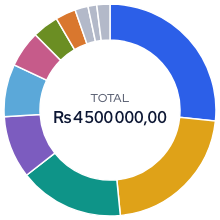
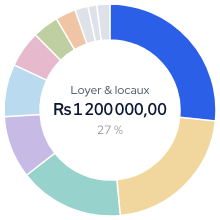
fix(qa): corrige les trois constats de la revue contradictoire
Revue par contexte independant avant push (regle 6). Trois constats retenus.

F1 (bloquant) — le stub `sommeNette` de la demo renvoyait ses totaux SANS regarder
le filtre : le bandeau se superposait a l'etat vide « aucune transaction ne
correspond », un ecran que la prod ne produit jamais (`sommeNette.length > 0` y
demonte le bloc), et l'etat vide filtre devenait lui-meme incapturable. C'est
exactement le defaut de fidelite de fixture que ce lot pretendait traiter. Seule la
CARDINALITE suit desormais le filtre ; les montants restent une constante.

F2 — `types-transactions.ts` tracait « la demo ne fournit pas sommeNette » en
nommant le fichier. Le commentaire est amende au lieu d'etre laisse faux.

F3 — le `whitespace-nowrap` pose sur le libelle de devise rendait la colonne
incompressible et repoussait le NET hors de l'ecran sous 640 px : l'inverse de la
regle du projet (un libelle cede, jamais un chiffre). La cellule redevient
elastique — le repli tombe ENTRE les mots, aucun mot n'est hache. Mesure : plus de
Net masque des 480 px. A 375 px la table defile encore (quatre colonnes dont trois
insecables), la zone est donc rendue focusable au clavier.

Aussi : case a cocher recalee sur la 1re ligne des options a deux lignes (F6),
commentaire perime du donut corrige (F5, U+202F est deja insecable), reference
UI_GUIDELINES §221 -> §2.2 (221 etait un numero de ligne).

diff --git a/src/components/transactions/transactions-somme-nette.tsx b/src/components/transactions/transactions-somme-nette.tsx
@@ -107,7 +107,20 @@ export function TransactionsSommeNette({
           colonnes ET de ligne → association valeur↔en-tête gratuite pour le lecteur
           d'écran, et alignement des colonnes (donc des virgules) garanti par le moteur de
           rendu, sans largeur en dur. */}
-      <div className="mt-2 overflow-x-auto">
+      {/* Sous ~400 px, quatre colonnes dont trois de montants INSÉCABLES ne tiennent pas :
+          la table défile alors DANS ce conteneur (la page, elle, ne défile jamais). C'est
+          le moindre mal — l'alternative serait de raboter un chiffre.
+          `role=region` + `tabIndex=0` : une zone défilante doit être atteignable au
+          CLAVIER, sinon le Net devient inaccessible sans souris dès qu'elle défile.
+          `aria-label` PROPRE (et non un `aria-labelledby` vers le titre de la section) :
+          la section porte déjà ce titre, le réutiliser ferait annoncer deux fois le même
+          nom pour deux niveaux imbriqués. Inerte tant qu'il n'y a rien à faire défiler. */}
+      <div
+        role="region"
+        aria-label="Totaux par devise"
+        tabIndex={0}
+        className="mt-2 overflow-x-auto focus-visible:outline-none focus-visible:ring-2 focus-visible:ring-primary"
+      >
         <table className="w-full text-xs">
           <thead>
             <tr className="text-[11px] uppercase tracking-wide text-text-faint">
@@ -128,16 +141,21 @@ export function TransactionsSommeNette({
           <tbody>
             {totaux.map((t) => (
               <tr key={t.devise}>
-                {/* `whitespace-nowrap` : le nom de devise est un MOT, il se lit entier ou
-                  pas du tout. Il portait `max-w-0 truncate` — un hack qui écrase la
-                  colonne au minimum possible pour forcer la troncature ; sur une table
-                  de 942 px il ne laissait que 105 px au libellé et coupait « Roupie
-                  mauricienne » en plein mot alors que la place était disponible. La
-                  colonne se dimensionne maintenant sur son contenu ; les trois colonnes
-                  de montants, elles, restent prioritaires (`nowrap` + `tabular-nums`). */}
+                {/* Cellule ÉLASTIQUE, et c'est voulu. Elle portait `max-w-0 truncate` —
+                  le hack qui écrase une cellule de table au minimum pour forcer la
+                  coupe : sur une table de 942 px il ne laissait que 105 px au libellé et
+                  hachait « Roupie mauricienne » EN PLEIN MOT alors que la place était là.
+                  Ce qui est proscrit, c'est le mot haché, pas le retour à la ligne : sans
+                  contrainte, le repli CSS tombe entre « Roupie » et « mauricienne » et les
+                  deux mots restent entiers.
+                  Surtout, ne PAS mettre `whitespace-nowrap` ici : mesuré, la colonne
+                  devenait alors incompressible et poussait le NET — le chiffre clé —
+                  hors de l'écran sous 640 px. Les seuls éléments rigides de la ligne
+                  doivent être les montants. Un libellé cède, jamais un chiffre
+                  (CLAUDE.md, formatage des données financières). */}
                 <th
                   scope="row"
-                  className="whitespace-nowrap py-0.5 pr-3 text-left font-normal text-text-muted"
+                  className="py-0.5 pr-3 text-left font-normal text-text-muted"
                 >
                   {nomDevise(t.devise)}
                   <span className="text-text-faint">

diff --git a/src/app/demo/transactions/page.tsx b/src/app/demo/transactions/page.tsx
@@ -308,9 +308,22 @@ export default function TransactionsDemoPage() {
         });
         return { ok: true as const, data: { lignes, curseurSuivant: null } };
       },
-      async sommeNette() {
-        // Fixture CONSTANTE (cf. SOMME_NETTE_DEMO) : aucun calcul sur les lignes.
-        return { ok: true as const, data: SOMME_NETTE_DEMO };
+      async sommeNette(args: { filtres?: FiltresTransactions }) {
+        // Les MONTANTS sont une constante (aucune somme côté client, cf.
+        // SOMME_NETTE_DEMO). Seule la CARDINALITÉ suit le filtre : un filtre qui ne
+        // ramène aucune ligne rend un tableau VIDE, comme le ferait l'agrégat serveur.
+        // Sans ça, le bandeau se superposait à l'état vide « aucune transaction ne
+        // correspond » — un écran que la prod ne produit jamais (`sommeNette.length > 0`
+        // y démonte le bloc) — et l'état vide filtré devenait, lui, incapturable.
+        const f = args.filtres ?? {};
+        const terme = f.recherche?.trim().toLowerCase();
+        const auMoinsUne = LIGNES.some((l) => {
+          if (f.statutCategorisation && l.statutCategorisation !== f.statutCategorisation)
+            return false;
+          if (terme && !(l.cleanLabel ?? "").toLowerCase().includes(terme)) return false;
+          return true;
+        });
+        return { ok: true as const, data: auMoinsUne ? SOMME_NETTE_DEMO : [] };
       },
       async chargerSplits(ref) {
         // Démonstration du garde-fou : la ligne « t5 » simule un échec serveur —

diff --git a/src/components/shell/perimetre-switcher.tsx b/src/components/shell/perimetre-switcher.tsx
@@ -108,7 +108,10 @@ function optionCompte(
       aria-selected={coche}
       onClick={() => basculer(c.bankAccountId)}
       className={cn(
-        "flex w-full items-center gap-2 rounded-control px-2 py-1.5 text-left",
+        // `items-start` : le libellé peut tenir sur deux lignes (cf. plus bas). Centrées,
+        // la case et le badge devise flotteraient à mi-hauteur du bloc au lieu d'être en
+        // regard de la PREMIÈRE ligne du nom.
+        "flex w-full items-start gap-2 rounded-control px-2 py-1.5 text-left",
         "text-sm transition-colors focus:outline-none focus-visible:ring-2",
         "focus-visible:ring-primary",
         coche ? "bg-primary-50" : "hover:bg-surface-inset",
@@ -117,7 +120,8 @@ function optionCompte(
       <span
         aria-hidden
         className={cn(
-          "flex h-4 w-4 shrink-0 items-center justify-center rounded-[4px] border text-[10px]",
+          // `mt-0.5` : recale la case (16 px) sur la hauteur de ligne du texte (20 px).
+          "mt-0.5 flex h-4 w-4 shrink-0 items-center justify-center rounded-[4px] border text-[10px]",
           coche
             ? "border-primary bg-primary text-text-onink"
             : "border-line",
@@ -129,13 +133,14 @@ function optionCompte(
           `truncate` : dans un popover de 300 px, un libellé réaliste (« State Bank of
           Mauritius · Compte épargne entreprise », 323 px) perdait plus de la moitié de
           ses caractères — or c'est précisément sur ce nom qu'on coche. Élargir ne suffit
-          pas : le design system plafonne les popovers à 360 px (UI_GUIDELINES §221), soit
+          pas : le design system plafonne les popovers à 360 px (UI_GUIDELINES §2.2), soit
           ~245 px utiles. Le repli lisible est donc le RETOUR À LA LIGNE, pas la coupe.
           `break-words` protège du cas pathologique (nom d'un seul tenant sans espace). */}
       <span className="min-w-0 flex-1 break-words text-text">
         {libelleCompte(c)}
       </span>
-      <span className="shrink-0 text-xs text-text-muted">{c.currency}</span>
+      {/* `mt-0.5` : même recalage que la case — le badge reste sur la 1re ligne du nom. */}
+      <span className="mt-0.5 shrink-0 text-xs text-text-muted">{c.currency}</span>
     </button>
   );
 }
@@ -372,7 +377,7 @@ export function PerimetreSwitcher({
 
       {ouvert && (
         <div
-          // 360 px = HAUT de la fourchette du design system (UI_GUIDELINES §221 :
+          // 360 px = HAUT de la fourchette du design system (UI_GUIDELINES §2.2 :
           // « popovers, largeur 320-360px ») ; les 300 px précédents étaient SOUS la
           // spec, ce qui privait les noms de comptes de ~60 px.
           //

diff --git a/src/components/transactions/types-transactions.ts b/src/components/transactions/types-transactions.ts
@@ -232,10 +232,14 @@ export interface ActionsTransactions {
    * que `listerTransactions` — mais sans curseur : il totalise TOUT le jeu filtré, pas la
    * page affichée.
    *
-   * OPTIONNELLE À DESSEIN : les surfaces qui n'ont pas d'agrégat serveur (stub de la démo
-   * `app/demo/transactions`, tests) ne la fournissent pas — le conteneur n'affiche alors
-   * simplement AUCUN total. Dégradation silencieuse assumée : pas de chiffre vaut mieux
-   * qu'un faux chiffre (un stub client ne pourrait sommer que la page visible).
+   * OPTIONNELLE À DESSEIN : les surfaces qui n'ont pas d'agrégat serveur (tests) ne la
+   * fournissent pas — le conteneur n'affiche alors simplement AUCUN total. Dégradation
+   * silencieuse assumée : pas de chiffre vaut mieux qu'un faux chiffre.
+   *
+   * Ce qu'un stub ne doit JAMAIS faire, c'est SOMMER les lignes affichées : la pagination
+   * est en keyset, il ne totaliserait que la page visible. La démo `app/demo/transactions`
+   * la fournit donc en FIXTURE — montants constants, seule la cardinalité suit le filtre —
+   * pour que le bandeau soit capturable au Visual QA sans jamais calculer un montant.
    */
   sommeNette?(args: {
     filtres?: FiltresTransactions;

diff --git a/src/components/graphiques/donut-categories.tsx b/src/components/graphiques/donut-categories.tsx
@@ -130,8 +130,12 @@ export function DonutCategories({
       </svg>
 
       {/* Centre : total mono-devise (chaîne SQL formatée) ou détail de la part survolée.
-          Overlay HTML (pas du <text> SVG) → tabular-nums + retour à la ligne propre pour
-          les gros montants. `pointer-events-none` : ne bloque pas le survol des secteurs. */}
+          Overlay HTML (pas du <text> SVG) → `tabular-nums` et mise en forme CSS normale.
+          Un montant ne se replie JAMAIS sur deux lignes : son séparateur de milliers est
+          une espace fine INSÉCABLE (U+202F, cf. `format-montant`), le `whitespace-nowrap`
+          ci-dessous ne fait qu'expliciter cette garantie. S'il ne tient pas, c'est la
+          géométrie qu'on corrige (rayons), pas le montant qu'on casse.
+          `pointer-events-none` : ne bloque pas le survol des secteurs. */}
       {/* Largeur en POURCENTAGE, pas en px : le SVG est fluide (`w-full`), donc un
           padding fixe (`px-8`) ne suit pas l'échelle — il laissait 156 px de texte pour
           un trou de 128 px. 58 % du côté reste inscrit dans le cercle intérieur (2×70/220

diff --git a/docs/qa/polish-front-demo/README.md b/docs/qa/polish-front-demo/README.md
@@ -18,7 +18,7 @@ trois écrans, le coupable est une largeur qui ne se voit pas sur une capture.
 | après | 245,6 px | 246 px (sur 2 lignes) | non |
 
 Élargir ne pouvait pas suffire : le design system plafonne les popovers à 360 px
-(UI_GUIDELINES §221), soit ~245 px utiles pour un nom qui en demande 323. C'est le
+(UI_GUIDELINES §2.2), soit ~245 px utiles pour un nom qui en demande 323. C'est le
 passage à la ligne (`break-words`) qui affiche le nom entier ; les 60 px gagnés ne
 font qu'économiser des retours à la ligne.
 
@@ -35,6 +35,14 @@ seulement filtre actif — taper dans la recherche).
 
 La table faisait déjà 942 px : `max-w-0` écrasait la colonne à 105 px et hachait le
 mot alors que la place était là.
+
+Ce qui est proscrit est le mot **haché**, pas le retour à la ligne. La cellule est
+donc laissée **élastique** (aucun `whitespace-nowrap`) : le repli tombe entre
+« Roupie » et « mauricienne », les deux mots restent entiers. Un premier jet rendait
+le libellé insécable — la colonne devenait alors incompressible et repoussait le NET
+hors de l'écran sous 640 px, ce qui inverse la règle du projet (un libellé cède,
+jamais un chiffre). Mesuré après correction : plus de défilement ni de Net masqué
+dès 480 px.
 
 ## 3. Centre du donut — `DONUT-CENTRE-DEBORDE1`
 
@@ -58,8 +66,23 @@ Contrôlé à 375 / 480 / 640 / 1024 / 1440 px. Un premier jet élargissait le p
 à 360 px à toutes les tailles : ancré à droite, il grandit vers la gauche et sortait
 du viewport sous 640 px (−44 px à 480 px). Corrigé par un garde `sm:`.
 
-La table du total défile dans son propre conteneur sur mobile (520 px de contenu
-dans 293 px de large) sans faire défiler la page.
+La table du total défile dans son propre conteneur sans jamais faire défiler la page.
+Ce défilement ne subsiste qu'à 375 px : trois colonnes de montants insécables plus une
+colonne de libellé ne tiennent pas dans 293 px, et raboter un chiffre est exclu. La
+zone est donc rendue atteignable au clavier (`role="region"` + `tabIndex=0`), sans
+quoi le Net serait inaccessible sans souris.
+
+## Revue contradictoire
+
+Le lot a été revu par un contexte indépendant avant push. Trois constats retenus et
+corrigés dans la branche :
+
+- le stub de démo renvoyait ses totaux **inconditionnellement** : le bandeau se
+  superposait à l'état vide « aucune transaction ne correspond », un écran que la prod
+  ne produit jamais. Seule la cardinalité suit désormais le filtre ;
+- la décision tracée dans `types-transactions.ts` nommait la démo comme ne fournissant
+  pas `sommeNette` : amendée plutôt que laissée en contradiction ;
+- la case à cocher flottait à mi-hauteur des options sur deux lignes (`items-center`).
 
 ## Réserves
 
@@ -69,6 +92,6 @@ dans 293 px de large) sans faire défiler la page.
 - `/demo/perimetre-states` défile horizontalement à 375 px. Le coupable est le faux
   header de la page de démo (`div.ml-auto`, 311 px), pas le sélecteur — préexistant,
   hors périmètre de ce lot.
-- Les popovers du design system demandent aussi 16 px de padding (§221) ; celui-ci
+- Les popovers du design system demandent aussi 16 px de padding (§2.2) ; celui-ci
   est à 8 px. Non touché : l'augmenter reprendrait 16 px de largeur au nom de compte,
   ce que ce lot cherche justement à gagner.